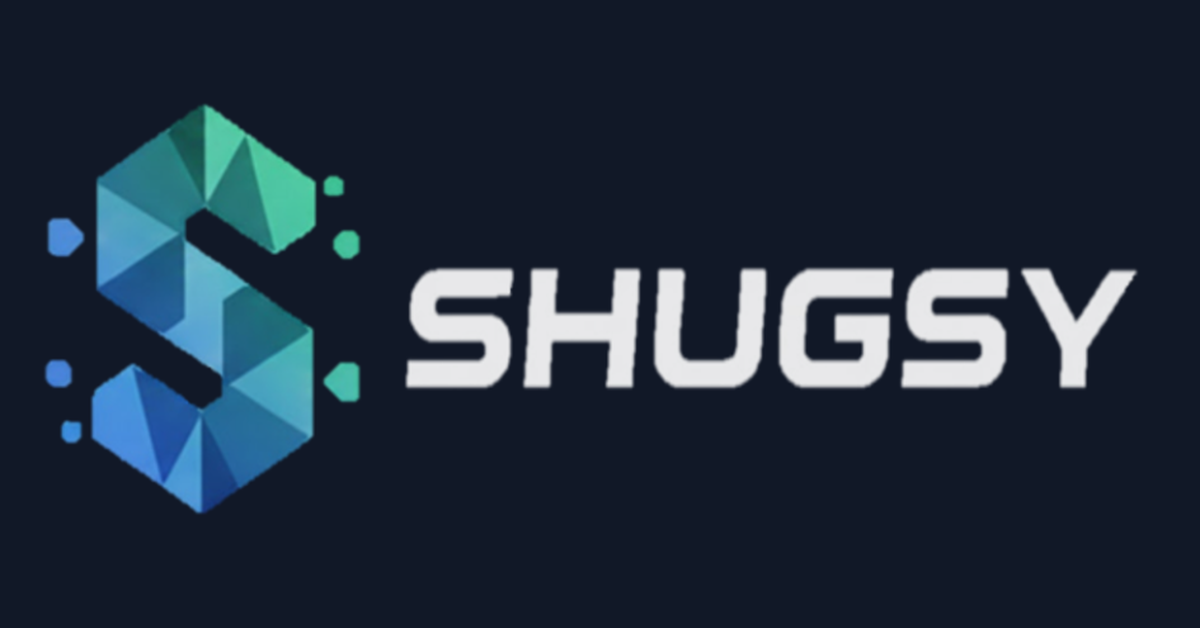
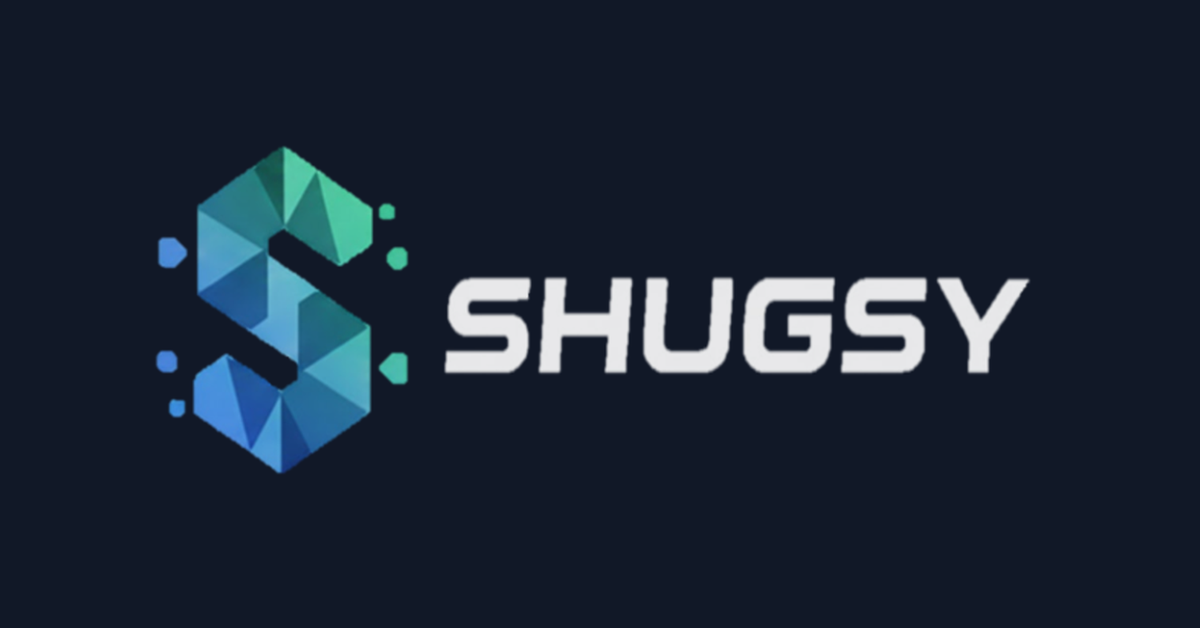
Scale Twitter card content smaller for more padding
Reduced content to 80% and centered within 1200x628 canvas
to prevent Twitter from cropping any part of the image.

Changed region(s): [[0.0308, 0.1513, 0.9558, 0.8169]]

diff --git a/app/layout.tsx b/app/layout.tsx
@@ -38,7 +38,7 @@ export const metadata: Metadata = {
     description: 'Free fantasy sports game for movie box office. Pick your lineup of movies, predict opening weekend grosses, and compete on the leaderboard.',
     images: [
       {
-        url: '/shugsy-share.png?v=3',
+        url: '/shugsy-share.png?v=4',
         width: 1200,
         height: 628,
         alt: 'Shugsy - Box Office Fantasy Sports',
@@ -49,7 +49,7 @@ export const metadata: Metadata = {
     card: 'summary_large_image',
     title: 'Shugsy - Fantasy Sports for the Box Office',
     description: 'Free fantasy sports game for movie box office. Pick your lineup of movies and compete on the leaderboard.',
-    images: ['/shugsy-share.png?v=3'],
+    images: ['/shugsy-share.png?v=4'],
   },
   robots: {
     index: true,

diff --git a/app/contests/[id]/leaderboard/page.tsx b/app/contests/[id]/leaderboard/page.tsx
@@ -25,10 +25,10 @@ export async function generateMetadata({ params }: PageProps): Promise<Metadata>
       title: `${contest.name} Leaderboard`,
       description: `Final results for the ${contest.name} box office fantasy contest.`,
       url: `https://www.shugsy.com/contests/${contestId}/leaderboard`,
-      images: ['/shugsy-share.png?v=3'],
+      images: ['/shugsy-share.png?v=4'],
     },
     twitter: {
-      images: ['/shugsy-share.png?v=3'],
+      images: ['/shugsy-share.png?v=4'],
     },
     alternates: {
       canonical: `https://www.shugsy.com/contests/${contestId}/leaderboard`,

diff --git a/app/contests/[id]/page.tsx b/app/contests/[id]/page.tsx
@@ -30,10 +30,10 @@ export async function generateMetadata({ params }: PageProps): Promise<Metadata>
       title: `${contest.name} - Box Office Fantasy Contest`,
       description,
       url: `https://www.shugsy.com/contests/${contestId}`,
-      images: ['/shugsy-share.png?v=3'],
+      images: ['/shugsy-share.png?v=4'],
     },
     twitter: {
-      images: ['/shugsy-share.png?v=3'],
+      images: ['/shugsy-share.png?v=4'],
     },
     alternates: {
       canonical: `https://www.shugsy.com/contests/${contestId}`,

diff --git a/app/login/page.tsx b/app/login/page.tsx
@@ -15,10 +15,10 @@ export const metadata: Metadata = {
     title: 'Sign In to Shugsy',
     description: 'Sign in to play free box office fantasy sports.',
     url: 'https://www.shugsy.com/login',
-    images: ['/shugsy-share.png?v=3'],
+    images: ['/shugsy-share.png?v=4'],
   },
   twitter: {
-    images: ['/shugsy-share.png?v=3'],
+    images: ['/shugsy-share.png?v=4'],
   },
   alternates: {
     canonical: 'https://www.shugsy.com/login',

diff --git a/app/page.tsx b/app/page.tsx
@@ -18,10 +18,10 @@ export const metadata: Metadata = {
     title: 'Shugsy - Fantasy Sports for the Box Office',
     description: 'Play free box office fantasy sports. Pick movies, predict grosses, win the weekend!',
     url: 'https://www.shugsy.com',
-    images: ['/shugsy-share.png?v=3'],
+    images: ['/shugsy-share.png?v=4'],
   },
   twitter: {
-    images: ['/shugsy-share.png?v=3'],
+    images: ['/shugsy-share.png?v=4'],
   },
 };
 
